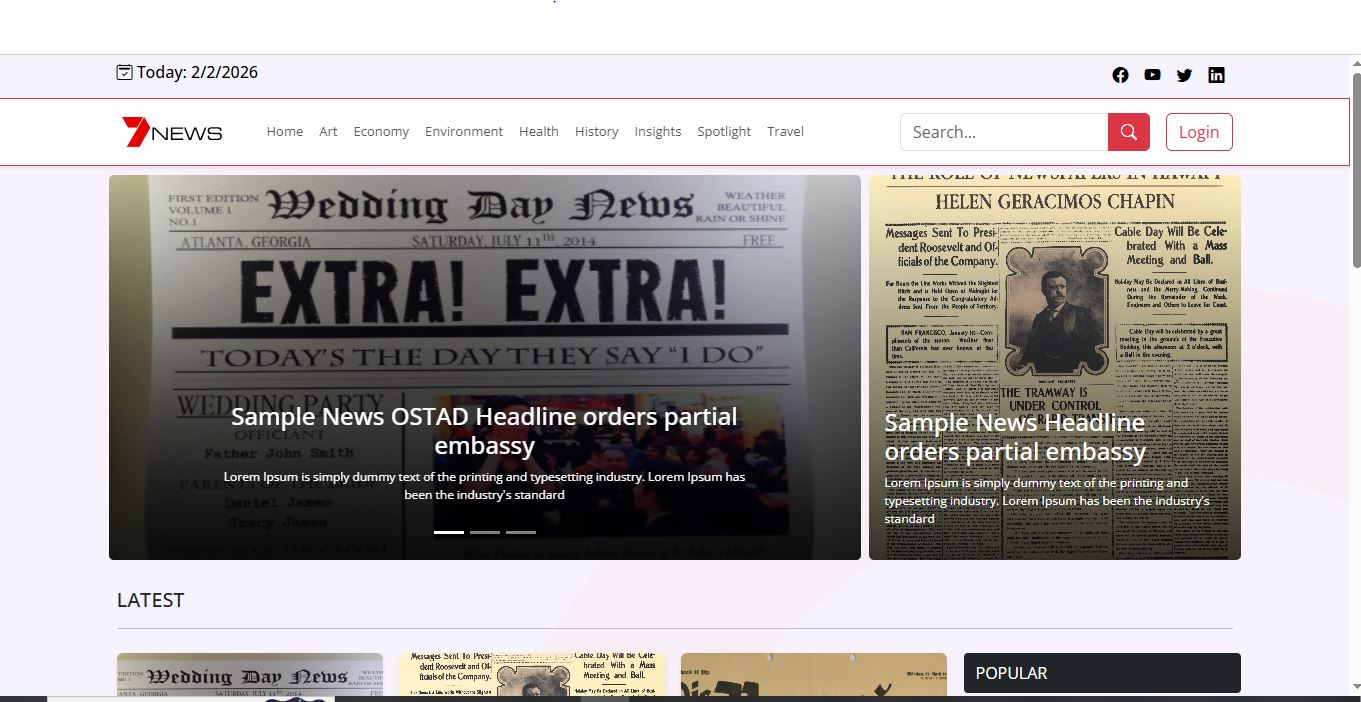
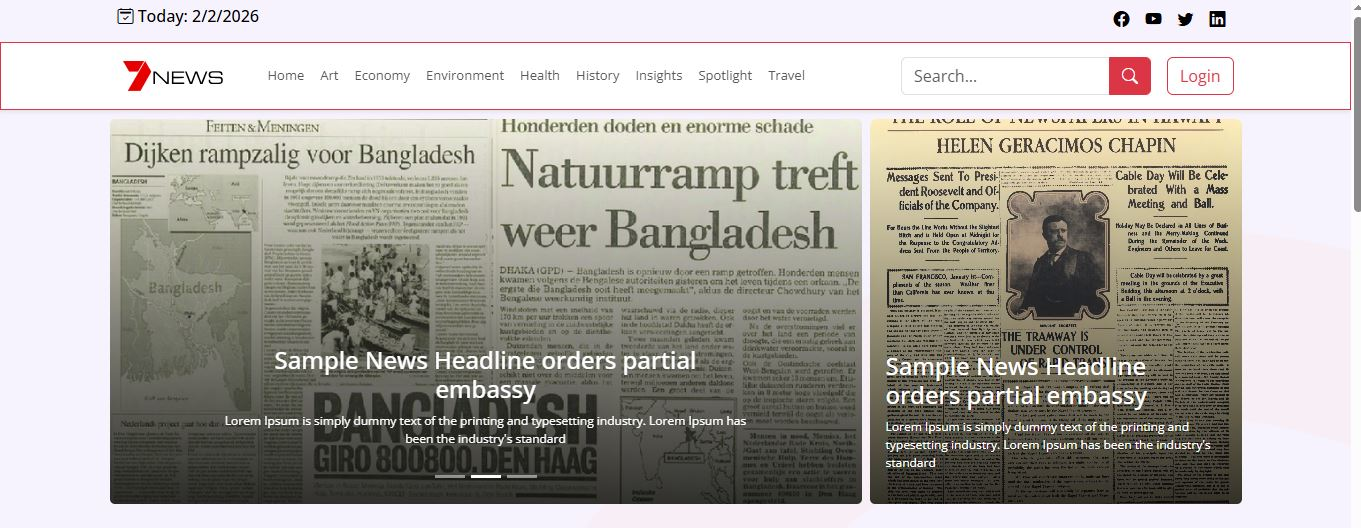
first-commit

diff --git a/README.md b/README.md
@@ -12,6 +12,9 @@ The platform allows users to browse news articles, search posts, manage profiles
 Below are some screenshots demonstrating the main features and interface of the News Website.
 
 ![Project Preview](./project_img/images/project.JPG)
+![Project Preview](./project_img/images/project_img.JPG)
+![Project Preview](./project_img/images/project_img1.JPG)
+![Project Preview](./project_img/images/project_img2.JPG)
 
 ---
 
@@ -65,7 +68,6 @@ Below are some screenshots demonstrating the main features and interface of the 
 
 ## Project Structure
 
-```id="pv4h9s"
 project-root
 │
 ├── pages
